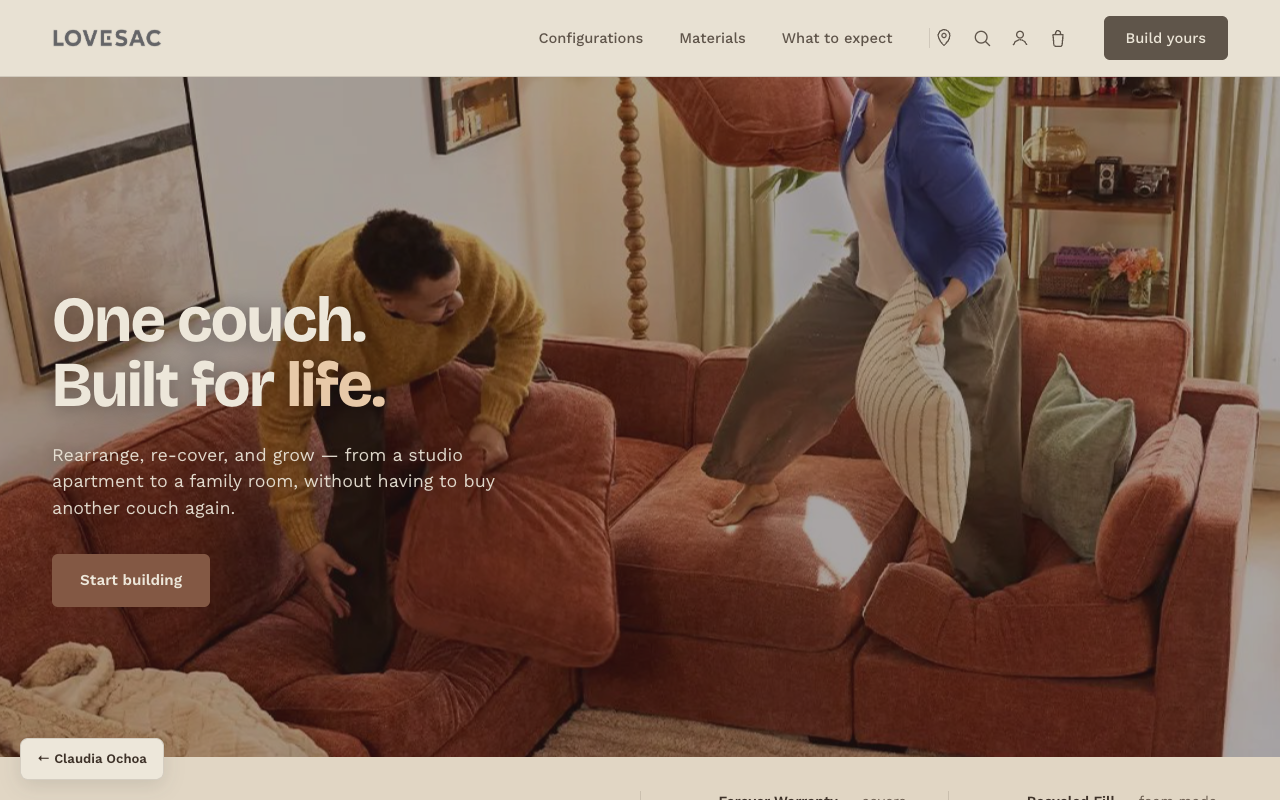
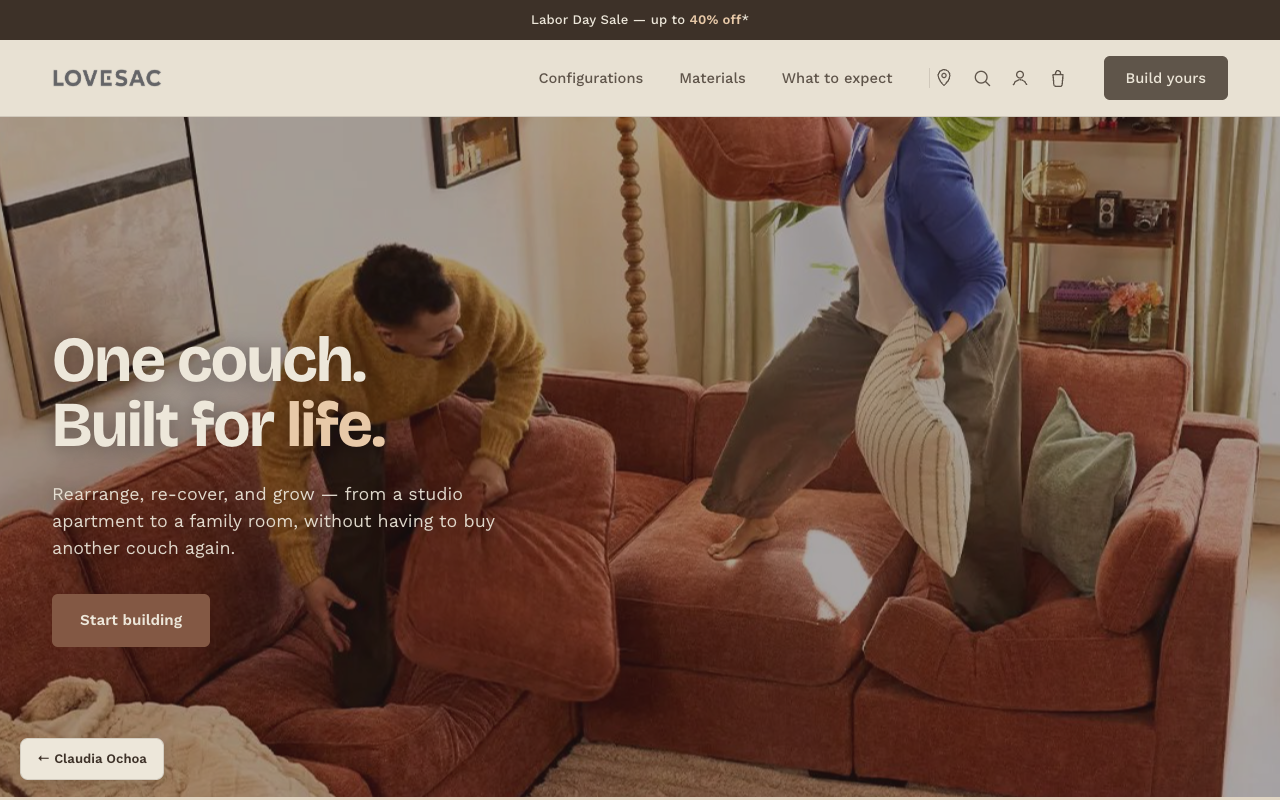
Add Labor Day promo bar above the nav
Slim dark bar above nav announcing the sale, scrolls away naturally
while nav stays sticky. Regenerates the homepage thumbnail to match.

Claude-Session: https://claude.ai/code/session_01KPQmV889tNPqVaSHT3GnGD

diff --git a/work/lovesac-redesign.html b/work/lovesac-redesign.html
@@ -282,11 +282,21 @@
     .timeline::before{display:none;}
     .nav-links{display:none;}
   }
+
+  /* ---------- PROMO BAR ---------- */
+  .promo-bar{
+    background:var(--ink); color:var(--canvas);
+    text-align:center; padding:10px 16px;
+    font-size:0.82rem; font-weight:500; letter-spacing:0.01em;
+  }
+  .promo-bar strong{color:#E8C9A8; font-weight:700;}
 </style>
 </head>
 <body>
 
 <a href="/" class="back-link">← Claudia Ochoa</a>
+
+<div class="promo-bar">Labor Day Sale — up to <strong>40% off</strong>*</div>
 
 <nav>
   <div class="wrap">
